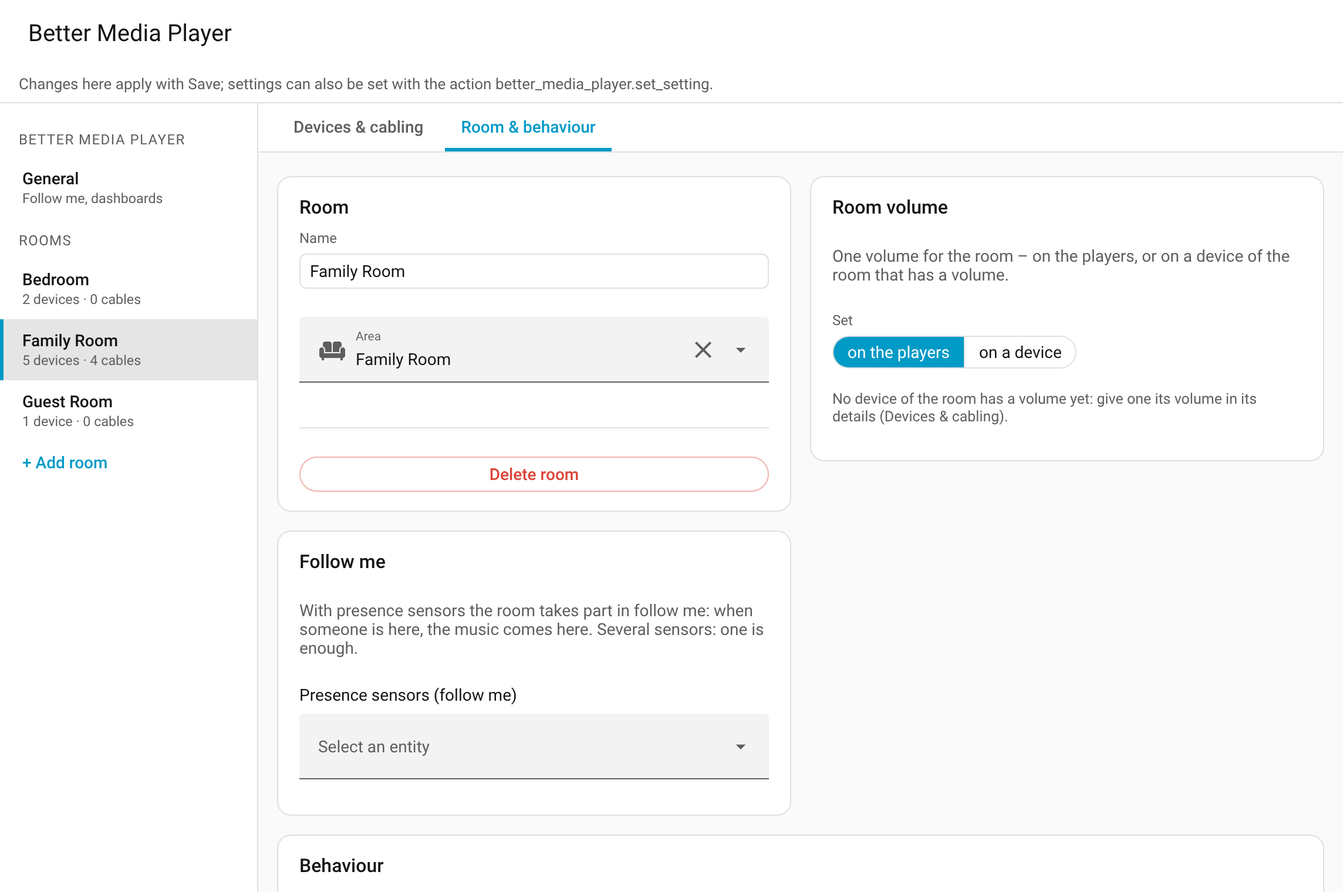
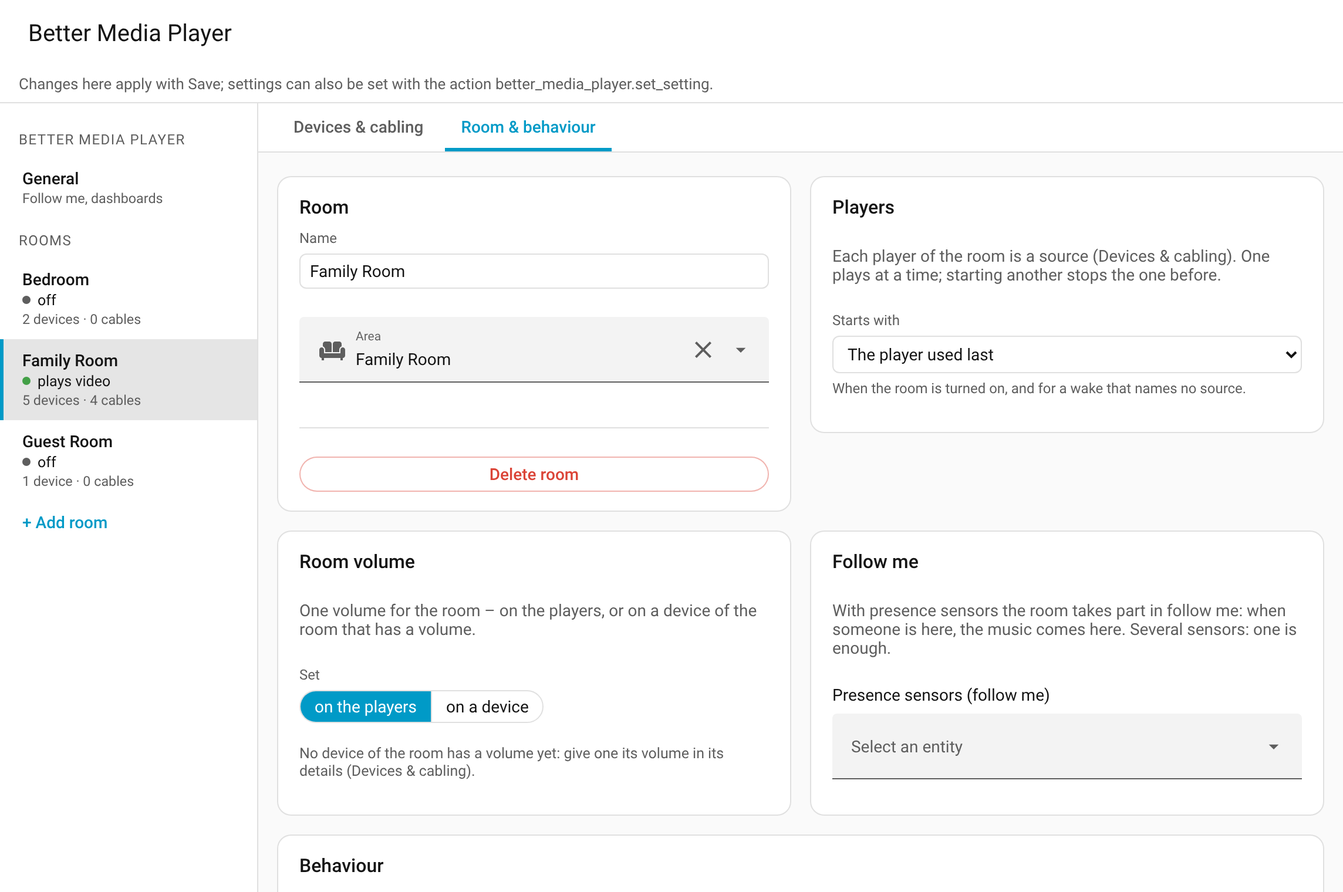
Docs: several players and players that run on another; Video, not Film
- README: several players per room, a player that runs on another
  (Sendspin in Kodi), scenario B; the idle timeout's wording.
- docs/devices.md: scenario B (a music player in Kodi).
- "Video" instead of "Film" in the panel and the docs; the panel's
  screenshots retaken.
- A player that runs on something: no "offers no on / off" hint, its
  on/off back to automatic when it is set to run on something.

Claude-Session: https://claude.ai/code/session_01Mgztzm6dmHdgQHQYnCgpdp

diff --git a/scripts/screenshots/shoot.js b/scripts/screenshots/shoot.js
@@ -175,14 +175,14 @@ async function shotDialog(page, file) {
   }
 
   if (want('panel')) {
-    // the configuration panel: the Family Room as cabled by cable_demo.py, the film's route shown
+    // the configuration panel: the Family Room as cabled by cable_demo.py, the video's route shown
     await page.setViewportSize({ width: 1400, height: 760 });
     await page.goto(`${BASE}/better-media-player/${session.entry_id}`);
     await settle(page, 3000);
     const panel = page.locator('bmp-panel');
-    await panel.getByRole('button', { name: 'Arrange automatically' }).click();  // the places as the panel chooses them
+    await panel.getByRole('button', { name: 'Arrange automatically' }).click({ force: true });  // the places as the panel chooses them
     await page.waitForTimeout(800);
-    await panel.locator('.chip', { hasText: 'Film' }).click();
+    await panel.locator('.chip', { hasText: 'Video' }).click();
     await page.waitForTimeout(500);
     await panel.screenshot({ path: `${OUT}/panel.png` });
     // a device's details (editing), on its own page width

diff --git a/custom_components/better_media_player/frontend/live.js b/custom_components/better_media_player/frontend/live.js
@@ -37,7 +37,7 @@ function when(p, at, coarse = false) {
 
 const playerWord = (p, s) => (s.state === "paused" ? p._t("live.paused") : p._t("live.stopped"));
 
-// the source's name ("Film", "Music"); in an English line it reads as a word ("plays film")
+// the source's name ("Video", "Music"); in an English line it reads as a word ("plays video")
 const kindOf = (room, key) => room.sources.find((s) => s.id === key)?.kind ?? (key === "video" ? "video" : "audio");
 const srcName = (p, room, key) => p._t(`source.${kindOf(room, key)}`);
 const srcWord = (p, room, key) => (String(p._lang || "en").startsWith("en") ? srcName(p, room, key).toLowerCase() : srcName(p, room, key));

diff --git a/custom_components/better_media_player/frontend/editor.js b/custom_components/better_media_player/frontend/editor.js
@@ -166,6 +166,7 @@ export function setHost(d, src, plug, defaults) {
 export function setRunsOn(d, src, id) {
   src.runs_on = id || null;
   if (src.runs_on) {
+    src.onoff = "auto"; // (what it runs on brings it up; its own on/off only if it has one)
     src.host = null;
     src.settings = null;
     d.cables = d.cables.filter((c) => c.from !== src.id);

diff --git a/tests/test_runs_on.py b/tests/test_runs_on.py
@@ -266,6 +266,13 @@ def test_what_it_runs_on_is_checked(hass, home):
     assert "guest_cable" in _codes(hass, _draft(_sources(), cables=cable))
 
 
+def test_no_on_off_hint_for_it(hass, home):
+    """It comes up with what it runs on: its own on/off is no matter."""
+    hass.states.async_set(SENDSPIN, "idle", {"supported_features": 0})
+    problems = check_room(hass, None, _draft(_sources(onoff="player")))
+    assert "player_no_onoff" not in {p["code"] for p in problems}
+
+
 def test_it_has_no_plug_of_its_own(hass):
     setup = clean_setup(_draft(_sources(host="switch.x")))
     assert setup["sources"][1]["host"] is None and setup["sources"][1]["runs_on"] == "video"

diff --git a/custom_components/better_media_player/panel/edit.py b/custom_components/better_media_player/panel/edit.py
@@ -242,7 +242,7 @@ def check_room(hass: HomeAssistant, entry_id: str | None, setup: dict, settings:
                 err("room_player", entity=e)
         if s["onoff"] == "actions" and not s["on_action"] and not s["off_action"]:
             err("needs_actions", source=s["id"])
-        if s["onoff"] == "player" and _supports(hass, s["player"], MediaPlayerEntityFeature.TURN_ON) is False:
+        if s["onoff"] == "player" and not s.get("runs_on") and _supports(hass, s["player"], MediaPlayerEntityFeature.TURN_ON) is False:
             hint("player_no_onoff", entity=s["player"])
 
     # devices

diff --git a/README.md b/README.md
@@ -16,14 +16,14 @@ It is a custom integration in the spirit of Better Thermostat: you tell it what 
 ### In a room
 
 - **[Power in the right order](https://github.com/financelurker/ha-better-media-player/blob/main/docs/room.md#order):** press play on Kodi → the TV comes on, Kodi wakes up, then the speakers; speakers never pop and a player is only used once it is ready.
-- **Shared speakers:** one set of speakers (plus subwoofer) serves both a video player such as Kodi and a music player such as Music Assistant.
-- **[On and off by itself](https://github.com/financelurker/ha-better-media-player/blob/main/docs/room.md#when-devices-go-off):** music that starts on the room's player powers the speakers. When nothing plays any more, everything goes off after a while (e.g. the TV 10 min after Kodi is off).
+- **[Several players, shared speakers](https://github.com/financelurker/ha-better-media-player/blob/main/docs/players.md):** any number of video and music players per room (Kodi, Music Assistant, any other media player) share one set of speakers; a player can [run on another](https://github.com/financelurker/ha-better-media-player/blob/main/docs/players.md#a-player-that-runs-on-another-player-or-a-device) – a Sendspin player in Kodi, HEOS on a receiver – and the room knows its music is no video.
+- **[On and off by itself](https://github.com/financelurker/ha-better-media-player/blob/main/docs/room.md#when-devices-go-off):** music that starts on the room's player powers the speakers. When nothing plays any more, everything goes off after a while (30 min by default: the sound first, then the player, then the picture); a player you turn off takes everything with it at once.
 - **[Inputs and CEC](https://github.com/financelurker/ha-better-media-player/blob/main/docs/devices.md):** tell the room how TV, AV receiver and players are cabled, and it switches the right inputs for what plays – or leaves switching to HDMI-CEC and only waits for it.
 - **[Plugs or devices](https://github.com/financelurker/ha-better-media-player/blob/main/docs/room.md#devices-instead-of-plugs):** TV, speakers and subwoofer can hang on switchable plugs, turn themselves on and off (a TV or AV receiver as media player, a remote), be switched by your own scripts (e.g. IR) – or a mix.
 - **[Room off](https://github.com/financelurker/ha-better-media-player/blob/main/docs/room.md#power-button-and-sources):** leaves a Music Assistant group, stops playback, turns the video player off and powers everything down.
 - **[One volume per room](https://github.com/financelurker/ha-better-media-player/blob/main/docs/volume.md)**, with presets (quiet, normal, loud, party) – on the players or on an amplifier, AV receiver or soundbar.
 - **[Night mode, sleep timer and wake up](https://github.com/financelurker/ha-better-media-player/blob/main/docs/night-sleep-wake.md)** with fades.
-- **[Announcements](https://github.com/financelurker/ha-better-media-player/blob/main/docs/announcements.md)** over what plays: a room that is off powers up for it and goes off again; a film pauses; at night at most the night mode's limit.
+- **[Announcements](https://github.com/financelurker/ha-better-media-player/blob/main/docs/announcements.md)** over what plays: a room that is off powers up for it and goes off again; a video pauses; at night at most the night mode's limit.
 - **[Media browser and search](https://github.com/financelurker/ha-better-media-player/blob/main/docs/media-browser.md)** across all of the room's players, with their queues on top; picking a movie powers up TV and Kodi first.
 - **[Manual override](https://github.com/financelurker/ha-better-media-player/blob/main/docs/room.md#switched-by-hand):** switch a plug (or turn a device on) by hand and the room steps back until everything is off again.
 - **[Tidy dashboards](https://github.com/financelurker/ha-better-media-player/blob/main/docs/dashboards.md):** controls that make no sense right now are hidden.
@@ -34,7 +34,7 @@ It is a custom integration in the spirit of Better Thermostat: you tell it what 
 - **[Group playback](https://github.com/financelurker/ha-better-media-player/blob/main/docs/volume.md):** a Music Assistant group powers the speakers of every room in it; the group decides the volume, each room keeps its night mode's limit.
 - **[Follow me](https://github.com/financelurker/ha-better-media-player/blob/main/docs/follow-me.md):** start it in a room and the music moves with you from room to room, using the rooms' occupancy sensors and one Music Assistant group player; it never takes over a room that plays something else and leaves quiet rooms out.
 - **[Wake up with follow me](https://github.com/financelurker/ha-better-media-player/blob/main/docs/night-sleep-wake.md#with-follow-me):** the music follows you out of the bedroom.
-- **[Handover](https://github.com/financelurker/ha-better-media-player/blob/main/docs/handover.md):** continue the music or the film in another room, where it was; the select offers only the rooms that can take it over.
+- **[Handover](https://github.com/financelurker/ha-better-media-player/blob/main/docs/handover.md):** continue the music or the video in another room, where it was; the select offers only the rooms that can take it over.
 - **[Announcements in several rooms](https://github.com/financelurker/ha-better-media-player/blob/main/docs/announcements.md):** rooms that play together as a group get it once, through the group, in step; quiet rooms are left out.
 - **[Central settings](https://github.com/financelurker/ha-better-media-player/blob/main/docs/setup.md):** the follow-me player and the dynamic controls for all rooms.
 
@@ -42,13 +42,13 @@ It is a custom integration in the spirit of Better Thermostat: you tell it what 
 
 A page of its own in Home Assistant's sidebar, where the rooms are set up: every room as a drawing – its players, its devices, how they are cabled, and what each player needs when it starts – with the details of each device and the room's settings, checked before they are saved. [More about the panel](https://github.com/financelurker/ha-better-media-player/blob/main/docs/designer.md).
 
-![The panel: a room's devices and cables, the film's route highlighted](https://raw.githubusercontent.com/financelurker/ha-better-media-player/main/docs/images/panel.png?v=6191ac8c1c)
+![The panel: a room's devices and cables, the video's route highlighted](https://raw.githubusercontent.com/financelurker/ha-better-media-player/main/docs/images/panel.png?v=9661b50aa6)
 
 ## Is it for you?
 
 **It fits if**
 
-- a room has a video player (e.g. Kodi) and/or a music player (e.g. a Music Assistant player);
+- a room has video players (e.g. Kodi) and/or music players (e.g. Music Assistant players) – one or several, also other media players with the basic functions, or a player that runs on another one (a Sendspin player in Kodi);
 - TV, speakers or subwoofer hang on switchable plugs (and start by themselves when they get power), turn on and off by themselves (a media player or a remote, e.g. a TV via webOS or CEC, an AV receiver, a Harmony hub), are switched by your own scripts (e.g. IR), or a mix of these;
 - an AV receiver or TV switches between the players: with the room's [cabling](https://github.com/financelurker/ha-better-media-player/blob/main/docs/devices.md) (inputs chosen by the room or over HDMI-CEC);
 - the room's volume is set on the players, or on an amplifier, AV receiver or soundbar with its own volume (a media player or a number);
@@ -64,6 +64,7 @@ Tested with simulated devices; **on real devices so far only scenario 0** (Kodi 
 
 - **[Scenario 0 – simple devices on plugs](https://github.com/financelurker/ha-better-media-player/blob/main/docs/devices.md#scenario-0-simple-devices-on-plugs):** TV, speakers and subwoofer on plugs, a video and a music player; no cabling needed. *In real use.*
 - **[Scenario A – TV with CEC, AV receiver, Kodi](https://github.com/financelurker/ha-better-media-player/blob/main/docs/devices.md#scenario-a-tv-with-cec-av-receiver-kodi):** Kodi wakes the TV over CEC, the TV the receiver; music on the receiver's network input, chosen by the room. *Simulated only.*
+- **[Scenario B – a music player in Kodi](https://github.com/financelurker/ha-better-media-player/blob/main/docs/devices.md#scenario-b-a-music-player-in-kodi):** Kodi for videos and a Sendspin player of Music Assistant in Kodi for music, through Kodi's sound; music in Kodi leaves the TV off. *Simulated only.*
 
 ## Installation
 
@@ -103,8 +104,8 @@ Without the button: HACS → ⋮ → **Custom repositories** → add `https://gi
 | [Room volume](https://github.com/financelurker/ha-better-media-player/blob/main/docs/volume.md) | one volume per room, on an own device, presets |
 | [Night mode, sleep timer and wake up](https://github.com/financelurker/ha-better-media-player/blob/main/docs/night-sleep-wake.md) | the night's limit, the sleep timer's fade-out, waking with a fade (also with follow me) |
 | [Follow me](https://github.com/financelurker/ha-better-media-player/blob/main/docs/follow-me.md) | the music moves with you from room to room |
-| [Handover](https://github.com/financelurker/ha-better-media-player/blob/main/docs/handover.md) | the music or the film goes on in another room |
-| [Announcements](https://github.com/financelurker/ha-better-media-player/blob/main/docs/announcements.md) | which player announces, films, volume, quiet rooms, several rooms |
+| [Handover](https://github.com/financelurker/ha-better-media-player/blob/main/docs/handover.md) | the music or the video goes on in another room |
+| [Announcements](https://github.com/financelurker/ha-better-media-player/blob/main/docs/announcements.md) | which player announces, videos, volume, quiet rooms, several rooms |
 | [Media browser and search](https://github.com/financelurker/ha-better-media-player/blob/main/docs/media-browser.md) | the browsers and queues of the room's players |
 | [Automations](https://github.com/financelurker/ha-better-media-player/blob/main/docs/automations.md) | actions, events and device triggers, with YAML examples |
 | [Dashboards](https://github.com/financelurker/ha-better-media-player/blob/main/docs/dashboards.md) | screenshots, dynamic controls, cards |

diff --git a/docs/announcements.md b/docs/announcements.md
@@ -16,17 +16,17 @@ A message or a sound in one or more rooms, over what plays there. With the actio
 | Situation | Player | Why |
 |---|---|---|
 | Something plays and its player can announce | that player | the announcement takes the same way as what plays: the same speakers, the same input of an amplifier; the player holds what plays and resumes it itself |
-| Something plays and its player cannot | the room's other player | it can; a film that plays meanwhile is paused, overlaid or turned down (`announce_video`) |
-| The room is off | the music player, else the video player | the room's devices come up for it (speakers, volume device; a player that is off is woken; the announcement waits until they are through, including the speakers' `on_wait` for speakers that need a moment) and go off right after, without waiting for the idle timeout (with automatic power; in manual mode the room switches nothing). The same for devices that only came up for it while the room was on (e.g. speakers of the music player behind a film) |
-| No player of the room can announce | a film plays and the music player is up and plays nothing: the music player (the film as above); else the player of what plays; the room is off: the music player, else the video player (fallback) | the announcement plays as usual media; what that player held is paused and starts again afterwards |
+| Something plays and its player cannot | the room's other player | it can; a video that plays meanwhile is paused, overlaid or turned down (`announce_video`) |
+| The room is off | the music player, else the video player | the room's devices come up for it (speakers, volume device; a player that is off is woken; the announcement waits until they are through, including the speakers' `on_wait` for speakers that need a moment) and go off right after, without waiting for the idle timeout (with automatic power; in manual mode the room switches nothing). The same for devices that only came up for it while the room was on (e.g. speakers of the music player behind a video) |
+| No player of the room can announce | a video plays and the music player is up and plays nothing: the music player (the video as above); else the player of what plays; the room is off: the music player, else the video player (fallback) | the announcement plays as usual media; what that player held is paused and starts again afterwards |
 
 - **What the player's system does:** Music Assistant plays its chime, sets its announcement volume, holds the music and resumes it afterwards (players announcing through ESPHome duck the music instead). The action returns once all of that is over (an announcement that is not over after 5 minutes is taken as over). Turning the room off meanwhile: it goes off once the announcement is over.
 - **Meanwhile the room holds still** (until a moment after the announcement): nothing the players do now counts as a wish – no volume learned (the preset stays), a pause is no snooze of a wake, no source change event; a preset fade, the night's fade back and a wake's fade hold and go on afterwards in the time they had left; the sleep timer waits. Announcements that overlap in a room are played one after the other (by the player's system, or by the room for the fallback); the room holds still until the last is over.
-- **A film meanwhile** (the announcement on the music player): the room's setting `announce_video` – **pause** (default; it goes on afterwards; a video player that cannot pause is turned down instead), **overlay** (it plays on), **lower** (turned down by `announce_video_lower`, default 50 %, and back afterwards). Set with `better_media_player.set_setting` ([Reference](reference.md#settings)).
+- **A video meanwhile** (the announcement on the music player): the room's setting `announce_video` – **pause** (default; it goes on afterwards; a video player that cannot pause is turned down instead), **overlay** (it plays on), **lower** (turned down by `announce_video_lower`, default 50 %, and back afterwards). Set with `better_media_player.set_setting` ([Reference](reference.md#settings)).
 - **Volume:** the player system's (Music Assistant: its announcement volume per player), or `volume` of the action. **At night** at most the night mode's limit, also without `volume` (then the limit). With a volume device the device stays at the room volume (and keeps the night's limit) and the announcement's volume is the player's own: there a number applies, a preset does not.
 - **Fallback** (no player of the room announces): the announcement plays at `volume`, else the room volume (at night at most the limit; with a volume device only a number of `volume` is set on the player; no chime: `pre_announce` is the player system's), then the player's volume comes back (unless changed meanwhile). What the player held starts again at its place, paused stays paused – best effort: its media is played again by its id (a queue or playlist may be lost, a stream starts anew, seeking where it can); without an id it can be played again by (e.g. Kodi's library items) it stays stopped. Nothing held before: it stops afterwards. Something you start on it meanwhile is left as it is. Not on a player in a group (the group's queue would be lost): the room then has no player for it. Turning the room off meanwhile: nothing starts again.
 - **Quiet rooms are left out** (see below), unless `ignore_quiet: true`.
-- **Several rooms** at once: rooms that together are all the members of a group that plays (e.g. follow me; the group's player must announce too) get it once, through the group, in step; the group goes on afterwards. Only some rooms of a group, a paused group, or a room with a film: each on its own player, the group plays on in the others. If a room fails (e.g. its players are in a group, or a preset it does not offer), the others still get it and the action reports the error afterwards.
+- **Several rooms** at once: rooms that together are all the members of a group that plays (e.g. follow me; the group's player must announce too) get it once, through the group, in step; the group goes on afterwards. Only some rooms of a group, a paused group, or a room with a video: each on its own player, the group plays on in the others. If a room fails (e.g. its players are in a group, or a preset it does not offer), the others still get it and the action reports the error afterwards.
 
 **Quiet and night mode:** the **night mode** is about *how loud* the room is (its limit, no subwoofer, shorter times) – for everything that plays there, also what you start. **Quiet** is about whether anything *from outside* comes in ("do not disturb", e.g. a baby asleep in the room): follow me leaves the room out and announcements skip it; what you start in the room itself (room player, wake, playing something) works as usual.
 

diff --git a/docs/devices.md b/docs/devices.md
@@ -21,7 +21,7 @@ A connection is what you have cabled: *from* a player or device, *to* the device
 
 - **The route of a source** follows its connections for each signal it needs (video: picture and sound; music: sound). Devices the connections do not reach are fed directly, as without cabling: a display for the picture, speakers, subwoofer, receiver and amplifier for the sound. Mixers and splitters pass on what reaches them, without being switched.
 - **What lies on a source's route is switched on for it.** Music routed through the TV (its app, or ARC) switches the TV on; music straight to the receiver leaves the TV off.
-- **One input per device and source:** a film cannot need BD and NET on the same receiver. The panel does not save that, nor connections that run in a circle for one signal.
+- **One input per device and source:** a video cannot need BD and NET on the same receiver. The panel does not save that, nor connections that run in a circle for one signal.
 - Removing a player or a device removes its connections.
 
 ## Inputs and switching of a device
@@ -38,7 +38,7 @@ In a device's details in the panel:
 
 ## What the room does
 
-- **The inputs follow the source in use:** the one starting, else the one playing. A film taking over from music puts the receiver on BD; when the film ends and the music still plays, back to NET.
+- **The inputs follow the source in use:** the one starting, else the one playing. A video taking over from music puts the receiver on BD; when the video ends and the music still plays, back to NET.
 - **An input is chosen once the device is on** (TVs ignore it while starting), checked after 5 s (with the device's `source`) and chosen once more if needed; then the room gives up (logged). A device that does not tell its input (IR) gets the command once.
 - **Changed by hand:** an input you change on the device afterwards is kept until the source changes.
 - **CEC:** HDMI-CEC lets devices control each other over the HDMI cable. Switching on is fairly uniform (a starting player wakes the TV and selects its input); switching off depends on the devices (a TV turned off often takes the others with it, a player going off often leaves the TV on). Hence the separate modes for on and off. A device switched on over CEC while the room needs it counts as switched by the room.
@@ -57,7 +57,7 @@ All setups are tested with simulated devices. **On real devices so far only scen
 
 - **Setup:** display (a TV or monitor without its own control) and speakers / subwoofer on switchable plugs; a video player (Kodi or Better Kodi) and a music player (Music Assistant).
 - **Configuration:** only the room's players and devices; no cabling.
-- **Behaviour:** a film switches the display, wakes Kodi, then speakers and subwoofer; music switches only speakers and subwoofer. Nothing plays for the idle timeout, or the player is turned off: everything goes off. No inputs to choose.
+- **Behaviour:** a video switches the display, wakes Kodi, then speakers and subwoofer; music switches only speakers and subwoofer. Nothing plays for the idle timeout, or the player is turned off: everything goes off. No inputs to choose.
 
 ### Scenario A: TV with CEC, AV receiver, Kodi
 
@@ -68,7 +68,15 @@ All setups are tested with simulated devices. **On real devices so far only scen
   - Display: the TV (switching itself), switched on by CEC (with fallback: the TV's `turn_on`, i.e. your Wake-on-LAN automation on its turn-on trigger), inputs via the TV.
   - AV receiver: on its plug and switching itself, inputs via the receiver.
   - Cables: video player → display, picture and sound, HDMI 2, chosen by CEC; display → receiver, sound, TV/ARC, chosen by CEC; music player → receiver, sound, NET, chosen by BMP.
-- **Behaviour:** starting a film, the room wakes Kodi and waits for the TV and its input over CEC (it does it itself after the timeout); music afterwards puts the receiver on NET.
+- **Behaviour:** starting a video, the room wakes Kodi and waits for the TV and its input over CEC (it does it itself after the timeout); music afterwards puts the receiver on NET.
+
+### Scenario B: a music player in Kodi
+
+*Tested: simulated only, not yet on real devices.*
+
+- **Setup:** Kodi on a box (with its plug) feeds the TV (picture) and the speakers (sound, e.g. through a passive mixer); a Sendspin player of Music Assistant runs as an add-on in Kodi; a second music player of its own (e.g. a Sendspin ESP) may feed the same speakers.
+- **Configuration:** Kodi as video player with its plug, cables to the display and the speakers; the Sendspin player in Kodi as music player, *Runs on*: Kodi ([details](players.md#a-player-that-runs-on-another-player-or-a-device)); *Main music player* under Room & behaviour if there are several.
+- **Behaviour:** music in Kodi wakes Kodi (plug first), waits for its Sendspin player and powers only the speakers – Kodi's own "playing" and its menu are no video, the TV stays off. A video chosen in Kodi turns the TV on after a moment. When the music is no longer used, the speakers go off, then Kodi, then its plug.
 
 ---
 

diff --git a/docs/night-sleep-wake.md b/docs/night-sleep-wake.md
@@ -9,7 +9,7 @@ For the evening and the morning: the night mode keeps the room quiet, the sleep 
 The switch `Night mode` puts the room into night mode until it is turned off again. Turning it on and off is up to you or to other integrations and automations (e.g. at bedtime and in the morning).
 
 - **No subwoofer:** it stays off, also when follow me prewarms the speakers. Turned on during playback, the subwoofer goes off at once; turned off, it comes back if something plays. Which devices are off at night is each device's `night_off` (default: the subwoofer). With automatic power off or in manual mode, nothing is switched.
-- **A shorter idle timeout:** nothing plays for 5 min instead of 30 (`night_idle_timeout`), and the room goes off – a film as music. Video still turns the display on.
+- **A shorter idle timeout:** nothing plays for 5 min instead of 30 (`night_idle_timeout`), and the room goes off – a video as music. Video still turns the display on.
 - **Volume limit** (default 30 %, 0 = none) for both players of the room (with a [volume device](volume.md#on-an-own-device): for the device), whoever sets the volume. What Better Media Player sets itself is limited before it is sent; a higher volume set elsewhere (app, remote) is set back as soon as it is reported, so it may be louder for a moment. A wish above the limit counts as the limit for the room volume.
 - **Groups:** a room's player in a group is limited like any other. The group itself is limited only when all its players belong to rooms in night mode. When a room leaves the night mode, its player fades back to the group's volume (follow me: the remembered volume plus the room's offset; other groups: the group's volume from before the night); the group volume itself is not raised, as that would raise the players still in night mode too. A limited volume is never remembered as follow me's volume.
 - **Afterwards:** the volume fades back to the room volume (default over 2 min); a volume change during the fade stops it. If nothing plays, the room volume is set at once. A restart during the fade continues it.
@@ -48,7 +48,7 @@ The room turns itself off after a set time, whatever plays (video or music). Ove
 
 `better_media_player.wake` wakes one room: the room powers up as usual, the playback starts at the start volume and fades in once it really plays. Example: [wake with the radio](automations.md#wake-up).
 
-- **Which player:** media picked through the room player (media selector of an automation) names the player itself, so a film wakes on Kodi and turns the display on. Other media go to the music player, or to `source: video`.
+- **Which player:** media picked through the room player (media selector of an automation) names the player itself, so a video wakes on Kodi and turns the display on. Other media go to the music player, or to `source: video`.
 - **No playback** within 60 s, or a failed start: the event `better_media_player_wake_failed` (`reason`: `start_failed` / `not_playing`) is fired so a different source can be tried, and the room goes off again if it was off before. A successful start fires `better_media_player_wake_started`.
 - **Snooze** (button, `better_media_player.snooze` with optional `minutes`, default: the room's `snooze_minutes`, 9 min, or a pause on the player): pauses (or stops, if the player cannot pause), keeps the room powered, then continues at the start volume and fades in; a player that is no longer paused by then starts the media again. Snoozing during the start starts it again from the beginning afterwards. `max_duration` counts from the last start.
 - A **volume change** by hand ends only the fade. Switching the night mode off during the wake lets the fade (or the volume) go up to the full target.

diff --git a/docs/handover.md b/docs/handover.md
@@ -2,14 +2,14 @@
 
 [← Back to the overview](../README.md)
 
-Continue what plays in one room in another: the music or the film goes on there, this room goes off. With the room's select **Hand over to** (it offers the rooms that can take it over, while something plays) or the action `better_media_player.handover` ([example](automations.md#handover)).
+Continue what plays in one room in another: the music or the video goes on there, this room goes off. With the room's select **Hand over to** (it offers the rooms that can take it over, while something plays) or the action `better_media_player.handover` ([example](automations.md#handover)).
 
 <img src="images/handover.png" alt="The room's select Hand over to, open: the rooms that can take over" width="420">
 
-- **The destination powers up first** (its power sequence for that source: TV, player, speakers), then the playback moves: **music** with its queue, going on where the track was, paused music stays paused (Music Assistant); **video** with Better Kodi's handover (it continues where the film was). The destination plays at its own room volume (night mode and presets apply there).
+- **The destination powers up first** (its power sequence for that source: TV, player, speakers), then the playback moves: **music** with its queue, going on where the track was, paused music stays paused (Music Assistant); **video** with Better Kodi's handover (it continues where the video was). The destination plays at its own room volume (night mode and presets apply there).
 - **What the destination played before** is replaced, as with a source change.
 - **During follow me**, handing the music over ends follow me: the music goes to the destination, the other rooms stop.
-- **This room goes off** afterwards (its sleep timer or wake end with it), unless `keep_source_playing` (only where the player's system can: Better Kodi; a Music Assistant queue moves), or its other source is in use (e.g. paused music handed over from behind a film: the film plays on).
+- **This room goes off** afterwards (its sleep timer or wake end with it), unless `keep_source_playing` (only where the player's system can: Better Kodi; a Music Assistant queue moves), or its other source is in use (e.g. paused music handed over from behind a video: the video plays on).
 - **Music in a group** (other than follow me) is not handed over: the group plays it, not the room's player.
 - Both rooms need a player for the source with handover: the same system (two Music Assistant players, two Better Kodi players). With several players of a kind in the destination, the first that can take it over: its music player (the one that plays, else its *Main music player*) or its video player that is on, else the one with the same ID, else any of the kind. Otherwise the action gives an error that says why (nothing plays, no such player in the destination, the system cannot hand over, …); errors of the player's own handover (e.g. Better Kodi's) are passed on.
 

diff --git a/docs/room.md b/docs/room.md
@@ -33,8 +33,8 @@ One rule for every player:
 | is turned off (by you, in its app, with its remote) | everything it needed goes off at once, in the same order |
 
 - Playing again before the idle timeout ends keeps everything on; the next pause starts it anew.
-- A device another player still uses stays on (e.g. the speakers for a film while the music is paused).
-- Choosing another source switches off at once what the new one does not need (the display after a film, when music starts).
+- A device another player still uses stays on (e.g. the speakers for a video while the music is paused).
+- Choosing another source switches off at once what the new one does not need (the display after a video, when music starts).
 - Follow me leaving the room (nobody there for its presence time): its speakers go off at once.
 - A player the room does not switch off (*Switched on and off by: None*, or music without on/off) stays as it is; only its devices go off.
 - The picture waits for the player to go off (at most a minute): a TV that the player turns off over HDMI-CEC goes with it.
@@ -50,7 +50,7 @@ One rule for every player:
 `switch.<room>_keep_on` keeps what is on on: nothing is switched off automatically – the idle timeout does not end, no device off at night, no device that nothing needs, no player's hardware plug, nothing an announcement brought up. Starting still switches on what a player needs (unlike *Automatic power* off, which switches nothing at all).
 
 - It stays on until it is turned off or *All off* is pressed (also the room player's off); also over a restart. Turned off, what nothing needs goes off at once; a player that does not play holds again for its idle timeout, from then on.
-- Set it ahead too, e.g. during a film, so nothing goes off afterwards.
+- Set it ahead too, e.g. during a video, so nothing goes off afterwards.
 - A room off that you did not press yourself (sleep timer, the end of a wake, a handover to another room) stops the players; kept on, the devices stay on. Quiet mode still switches the speakers off: you asked for it.
 - The room's status is `kept_on` while devices are on and nothing plays.
 - Turned on while something is going off: what was not yet switched off stays on (a device already switched off, waiting for its plug, goes on off).

diff --git a/docs/players.md b/docs/players.md
@@ -26,10 +26,10 @@ Some players only exist while something else runs: a Sendspin player of Music As
 
 - **Starting it:** the player it runs on comes up first – its plug, Kodi woken, or the receiver switched on – then the room waits (start timeout) until this player is there, then it plays.
 - **Its route:** its sound (and picture) goes out through the cables of what it runs on; it has no cables and no plug of its own (the tile sits above, with a dotted line).
-- **Its playing is its own:** while it plays, Kodi's own *playing* (Kodi plays its stream) is its, not a film; if Kodi reports first, the room waits a moment (1 s) for it. Kodi on in its menu while the music is in use is no film either, so the TV stays off.
-- **A film after all:** Kodi playing something of its own (a film chosen in Kodi) for a moment is the film again; so is choosing Kodi through the room player. Kodi turned on by itself, with the music not in use, is a film as ever.
+- **Its playing is its own:** while it plays, Kodi's own *playing* (Kodi plays its stream) is its, not a video; if Kodi reports first, the room waits a moment (1 s) for it. Kodi on in its menu while the music is in use is no video either, so the TV stays off.
+- **A video after all:** Kodi playing something of its own (a video chosen in Kodi) for a moment is the video again; so is choosing Kodi through the room player. Kodi turned on by itself, with the music not in use, is a video as ever.
 - **Off:** once it is no longer used (its idle timeout, turned off), Kodi goes off with it – after the sound – and then its plug; a receiver it runs on goes off unless something else needs it.
-- **Choosing it while a film plays:** the film stops, Kodi stays on for it.
+- **Choosing it while a video plays:** the video stops, Kodi stays on for it.
 - Its volume is its own player's (Kodi's Sendspin add-on sets Kodi's volume, as set in Music Assistant).
 
 *Tested: simulated only, not yet on real devices.* Jellyfin in Kodi is no player of its own: the Jellyfin add-on plays through Kodi's player (Home Assistant's Jellyfin player exists only per session), so it is Kodi.
